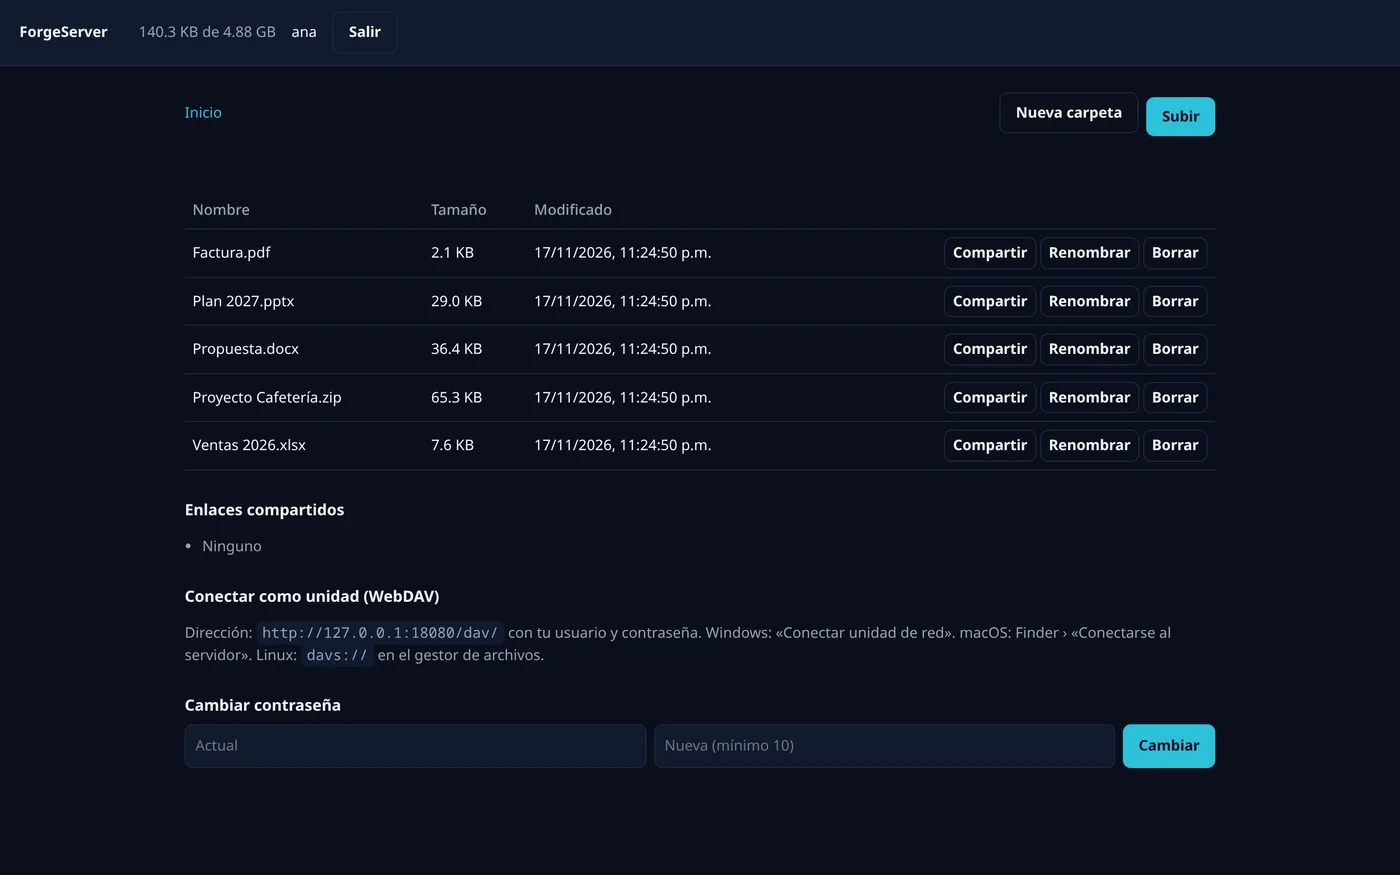
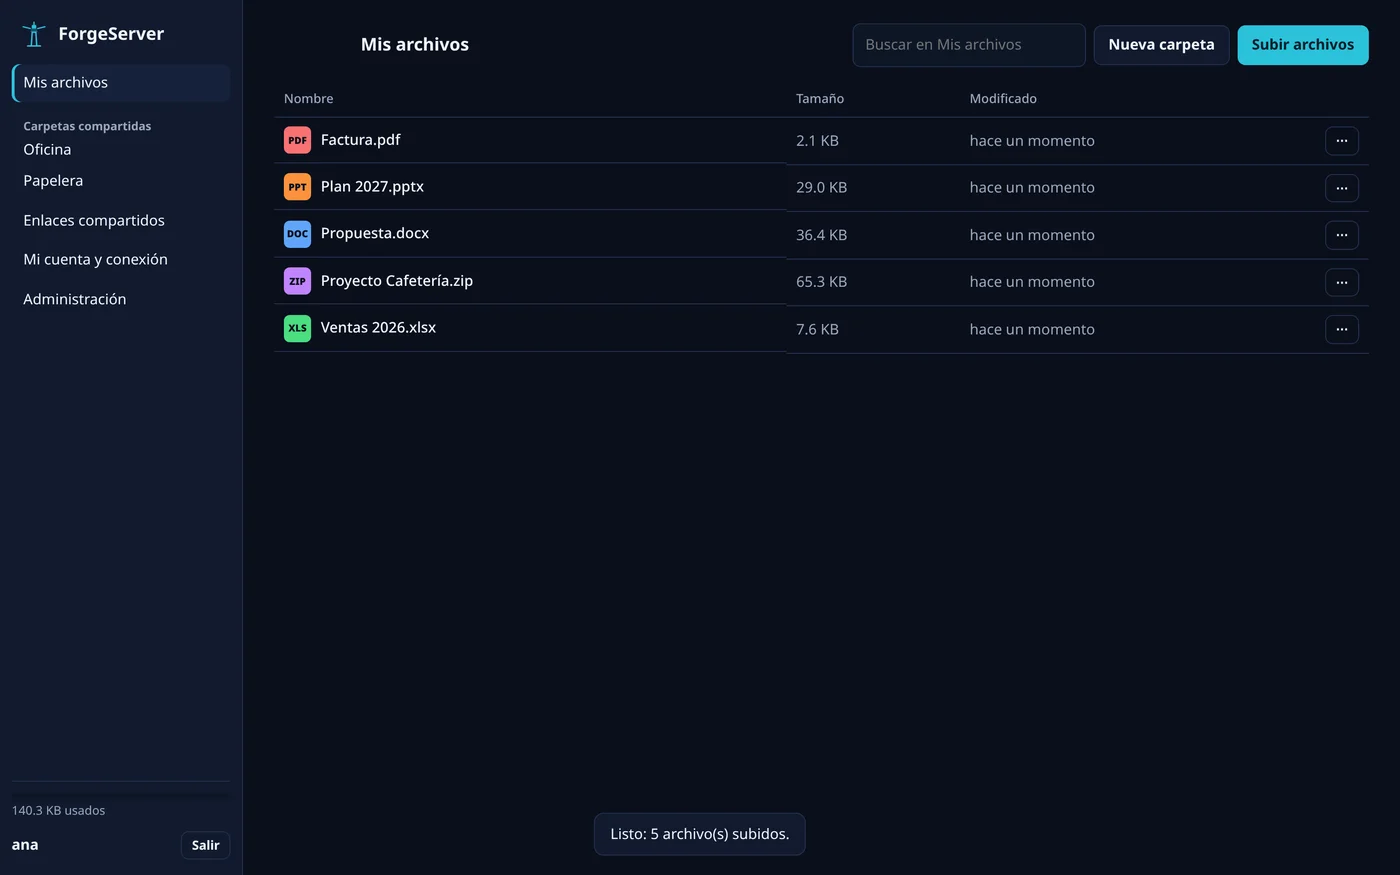
ForgeServer 0.2.0 en la página: arranque guiado, carpetas compartidas, papelera y versiones

diff --git a/README.es.md b/README.es.md
@@ -26,7 +26,7 @@ Lo más fácil es **ForgeLauncher**: instala, abre y actualiza todas las apps de
 | <img src="iconos/pdfforge.png" width="40"> | **PDFForge** | Lee, rellena, firma, une y divide PDF sin subirlos a ninguna página. | [0.21.1](https://github.com/znoowmk/zforge-releases/releases/download/pdfforge-v0.21.1/pdfforge-0.21.1-linux-x86_64.tar.gz) |
 | <img src="iconos/mailforge.png" width="40"> | **MailForge** | Todas tus cuentas de correo en una sola app, con calendario y contactos. | [0.2.0](https://github.com/znoowmk/zforge-releases/releases/download/mailforge-v0.2.0/mailforge-0.2.0-linux-x86_64.tar.gz) |
 | <img src="iconos/zipforge.png" width="40"> | **ZipForge** | Comprime y descomprime archivos, con contraseña si quieres. | [0.2.0](https://github.com/znoowmk/zforge-releases/releases/download/zipforge-v0.2.0/zipforge-0.2.0-linux-x86_64.tar.gz) |
-| <img src="iconos/forgeserver.png" width="40"> | **ForgeServer** | Tu propio servidor: los archivos de cada quien, carpetas compartidas, unidad de red y las apps en el navegador. | [0.1.0](https://github.com/znoowmk/zforge-releases/releases/download/forgeserver-v0.1.0/forgeserver-0.1.0-linux-x86_64.tar.gz) |
+| <img src="iconos/forgeserver.png" width="40"> | **ForgeServer** | Tu propio servidor: los archivos de cada quien, carpetas compartidas, unidad de red y las apps en el navegador. | [0.2.0](https://github.com/znoowmk/zforge-releases/releases/download/forgeserver-v0.2.0/forgeserver-0.2.0-linux-x86_64.tar.gz) |
 | <img src="iconos/forgelauncher.png" width="40"> | **ForgeLauncher** | Instala y actualiza toda la suite. | [0.19.5](https://github.com/znoowmk/zforge-releases/releases/download/forgelauncher-v0.19.5/forgelauncher-0.19.5-linux-x86_64.tar.gz) |
 
 Todas las versiones anteriores están en [Releases](https://github.com/znoowmk/zforge-releases/releases). Las de Windows también llegarán aquí.
@@ -45,11 +45,17 @@ DocForge, SlideForge y PDFForge aparecen en inglés: su interfaz en español vie
 
 Z-FORGE no te obliga a usar la nube de nadie: **cada quien monta su servidor**, en la PC de la oficina, un VPS, una Raspberry Pi o Docker. Un solo programa de 7 MB, sin base de datos externa.
 
-- Los archivos de cada persona desde el navegador o como unidad de red (WebDAV) en Windows, macOS y Linux.
+1. Descarga ForgeServer, descomprímelo y abre `bin/forgeserver`.
+2. Te muestra la dirección para los demás equipos y un código de un solo uso. Entra a la dirección, escribe el código y crea la cuenta de administración.
+3. En **Administración** agrega a las personas y crea carpetas compartidas (por ejemplo «Oficina»).
+
+- Los archivos de cada persona desde el navegador (vista previa de PDF, fotos y texto, búsqueda, arrastrar para subir) o como unidad de red en Windows, macOS y Linux, para abrir y guardar directo desde las apps.
+- Carpetas compartidas donde trabajan varias personas.
+- Papelera de 30 días y las últimas 10 versiones de cada archivo, también desde la unidad de red.
 - Enlaces para compartir que caducan, y espacio máximo por persona.
-- SheetForge, DocForge y SlideForge en el navegador.
 
 <p align="center"><img src="capturas/forgeserver.webp" width="900" alt="ForgeServer"><br><sub>ForgeServer en el navegador</sub></p>
+<p align="center"><img src="capturas/forgeserver-admin.webp" width="900" alt="Administración de ForgeServer"><br><sub>Personas y carpetas compartidas, desde el navegador</sub></p>
 
 Guías: [Instalar ForgeServer](docs/forgeserver-instalar.md) · [Seguridad](docs/forgeserver-seguridad.md)
 

diff --git a/README.md b/README.md
@@ -26,7 +26,7 @@ The easiest way is **ForgeLauncher**: it installs, opens and updates every app f
 | <img src="iconos/pdfforge.png" width="40"> | **PDFForge** | Read, fill in, sign, merge and split PDFs without uploading them anywhere. | [0.21.1](https://github.com/znoowmk/zforge-releases/releases/download/pdfforge-v0.21.1/pdfforge-0.21.1-linux-x86_64.tar.gz) |
 | <img src="iconos/mailforge.png" width="40"> | **MailForge** | All your email accounts in one app, with calendar and contacts. | [0.2.0](https://github.com/znoowmk/zforge-releases/releases/download/mailforge-v0.2.0/mailforge-0.2.0-linux-x86_64.tar.gz) |
 | <img src="iconos/zipforge.png" width="40"> | **ZipForge** | Compress and extract files, with password protection. | [0.2.0](https://github.com/znoowmk/zforge-releases/releases/download/zipforge-v0.2.0/zipforge-0.2.0-linux-x86_64.tar.gz) |
-| <img src="iconos/forgeserver.png" width="40"> | **ForgeServer** | Your own server: everyone's files, shared folders, a network drive and the apps in the browser. | [0.1.0](https://github.com/znoowmk/zforge-releases/releases/download/forgeserver-v0.1.0/forgeserver-0.1.0-linux-x86_64.tar.gz) |
+| <img src="iconos/forgeserver.png" width="40"> | **ForgeServer** | Your own server: everyone's files, shared folders, a network drive and the apps in the browser. | [0.2.0](https://github.com/znoowmk/zforge-releases/releases/download/forgeserver-v0.2.0/forgeserver-0.2.0-linux-x86_64.tar.gz) |
 | <img src="iconos/forgelauncher.png" width="40"> | **ForgeLauncher** | Installs and updates the whole suite. | [0.19.5](https://github.com/znoowmk/zforge-releases/releases/download/forgelauncher-v0.19.5/forgelauncher-0.19.5-linux-x86_64.tar.gz) |
 
 Every earlier version is under [Releases](https://github.com/znoowmk/zforge-releases/releases). Windows builds are coming here too.
@@ -45,11 +45,17 @@ DocForge, SlideForge and PDFForge are shown in English: their Spanish interface 
 
 Z-FORGE doesn't make you use anyone's cloud: **you run your own server**, on an office PC, a VPS, a Raspberry Pi or Docker. One 7 MB program with no external database.
 
-- Each person's files from the browser, or as a network drive (WebDAV) on Windows, macOS and Linux.
+1. Download ForgeServer, unpack it and run `bin/forgeserver`.
+2. It shows the address for the other computers and a one-time code. Open the address, type the code and create the administrator account.
+3. In **Administration**, add people and create shared folders (for example "Office").
+
+- Each person's files from the browser (PDF, picture and text previews, search, drag to upload) or as a network drive on Windows, macOS and Linux, to open and save straight from the apps.
+- Shared folders several people work in.
+- A 30-day trash and the last 10 versions of every file, also from the network drive.
 - Share links that expire, and a storage quota per person.
-- SheetForge, DocForge and SlideForge in the browser.
 
 <p align="center"><img src="capturas/forgeserver.webp" width="900" alt="ForgeServer"><br><sub>ForgeServer in the browser</sub></p>
+<p align="center"><img src="capturas/forgeserver-admin.webp" width="900" alt="ForgeServer administration"><br><sub>People and shared folders, managed from the browser</sub></p>
 
 Guides (Spanish): [Install ForgeServer](docs/forgeserver-instalar.md) · [Security](docs/forgeserver-seguridad.md)
 

diff --git a/docs/forgeserver-instalar.md b/docs/forgeserver-instalar.md
@@ -1,5 +1,36 @@
 # Instalar ForgeServer
 
+## La forma más rápida: una computadora de la oficina o de tu casa
+
+1. Descarga ForgeServer desde https://github.com/znoowmk/zforge-releases/releases (busca `forgeserver`)
+   y descomprímelo.
+2. Ábrelo (`bin/forgeserver`). La primera vez crea su configuración y te muestra algo así:
+
+   ```
+   ForgeServer 0.2.0 está funcionando.
+   Ábrelo desde el navegador de cualquier equipo de tu red:
+       http://192.168.1.20:8080
+   Primera vez: entra a una de esas direcciones y crea la cuenta de administración con este código:
+       QE9M-BLU8
+   ```
+3. Entra a esa dirección desde el navegador, escribe el código y crea tu cuenta de administración.
+4. En **Administración** agrega a las demás personas y crea carpetas compartidas (por ejemplo
+   «Oficina») con quienes las usarán.
+5. Cada persona entra con su usuario desde el navegador o conecta ForgeServer como unidad de red
+   (instrucciones en **Mi cuenta y conexión**) para abrir y guardar directo desde sus programas.
+
+Los datos quedan en la carpeta de datos de tu usuario (`~/.local/share/forgeserver` en Linux,
+`%LOCALAPPDATA%\ForgeServer` en Windows, `~/Library/Application Support/ForgeServer` en macOS).
+Respáldala.
+
+**Qué te protege de errores:** lo que se borra (desde el navegador o la unidad de red) va a la
+**Papelera** 30 días, y cada vez que un archivo se reemplaza se guarda la copia anterior (las
+últimas 10) en **Versiones anteriores**.
+
+Para que funcione también desde fuera de la oficina, con HTTPS, sigue una de las opciones de abajo.
+
+---
+
 ForgeServer corre en **tu** equipo o en **tu** nube. Elige una opción:
 
 | Opción | Para quién | Dificultad |
@@ -36,8 +67,9 @@ nano forgeserver.toml     # cambia public_url
 # 4. Arranca (la primera vez compila; tarda unos minutos)
 docker compose up -d
 
-# 5. Crea tu usuario administrador (te pide la contraseña, mínimo 10 caracteres)
-docker compose exec -T forgeserver forgeserver user add tunombre --admin
+# 5. Mira el código de primer inicio y entra a https://tu-dominio para crear la administración
+docker compose logs forgeserver | grep -A1 "código"
+#    (o desde la terminal: docker compose exec -T forgeserver forgeserver user add tunombre --admin)
 ```
 
 Abre `https://nube.tuempresa.mx`. Caddy obtiene el certificado HTTPS solo y lo renueva.
